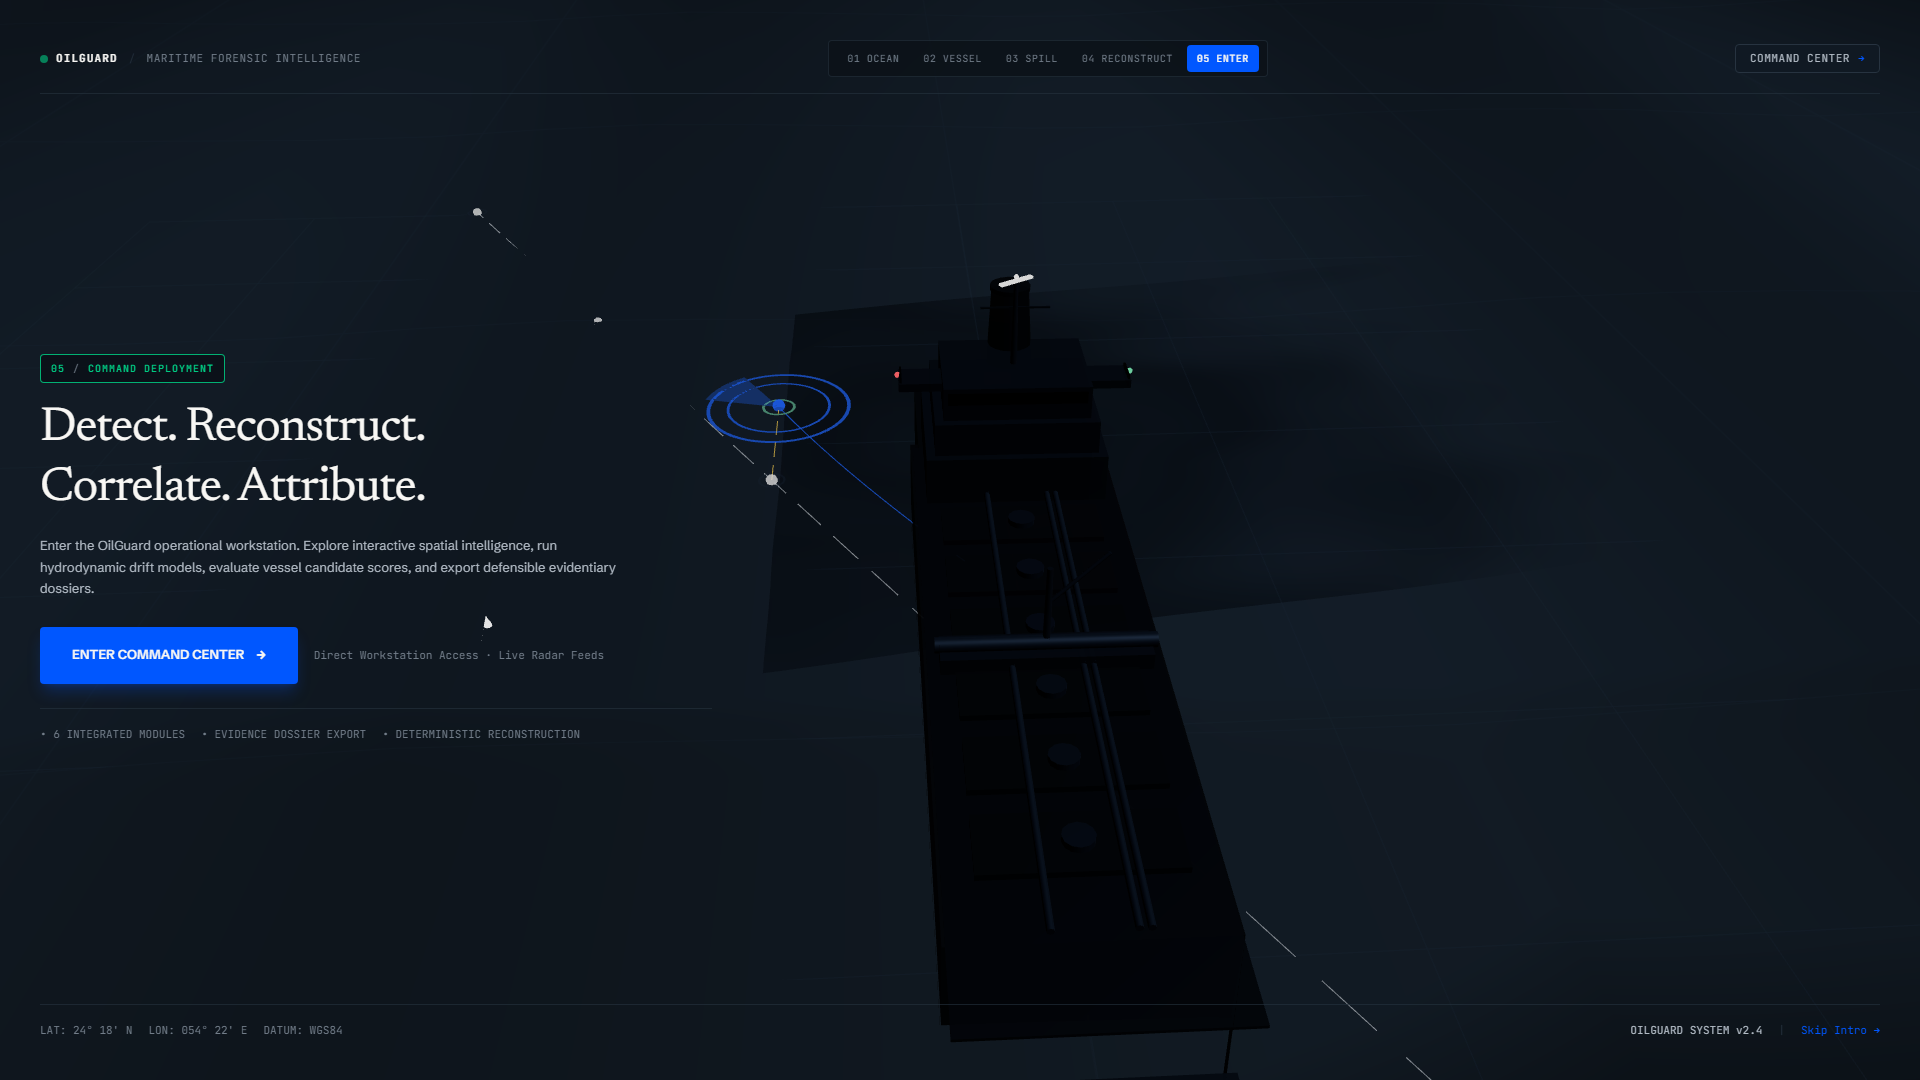
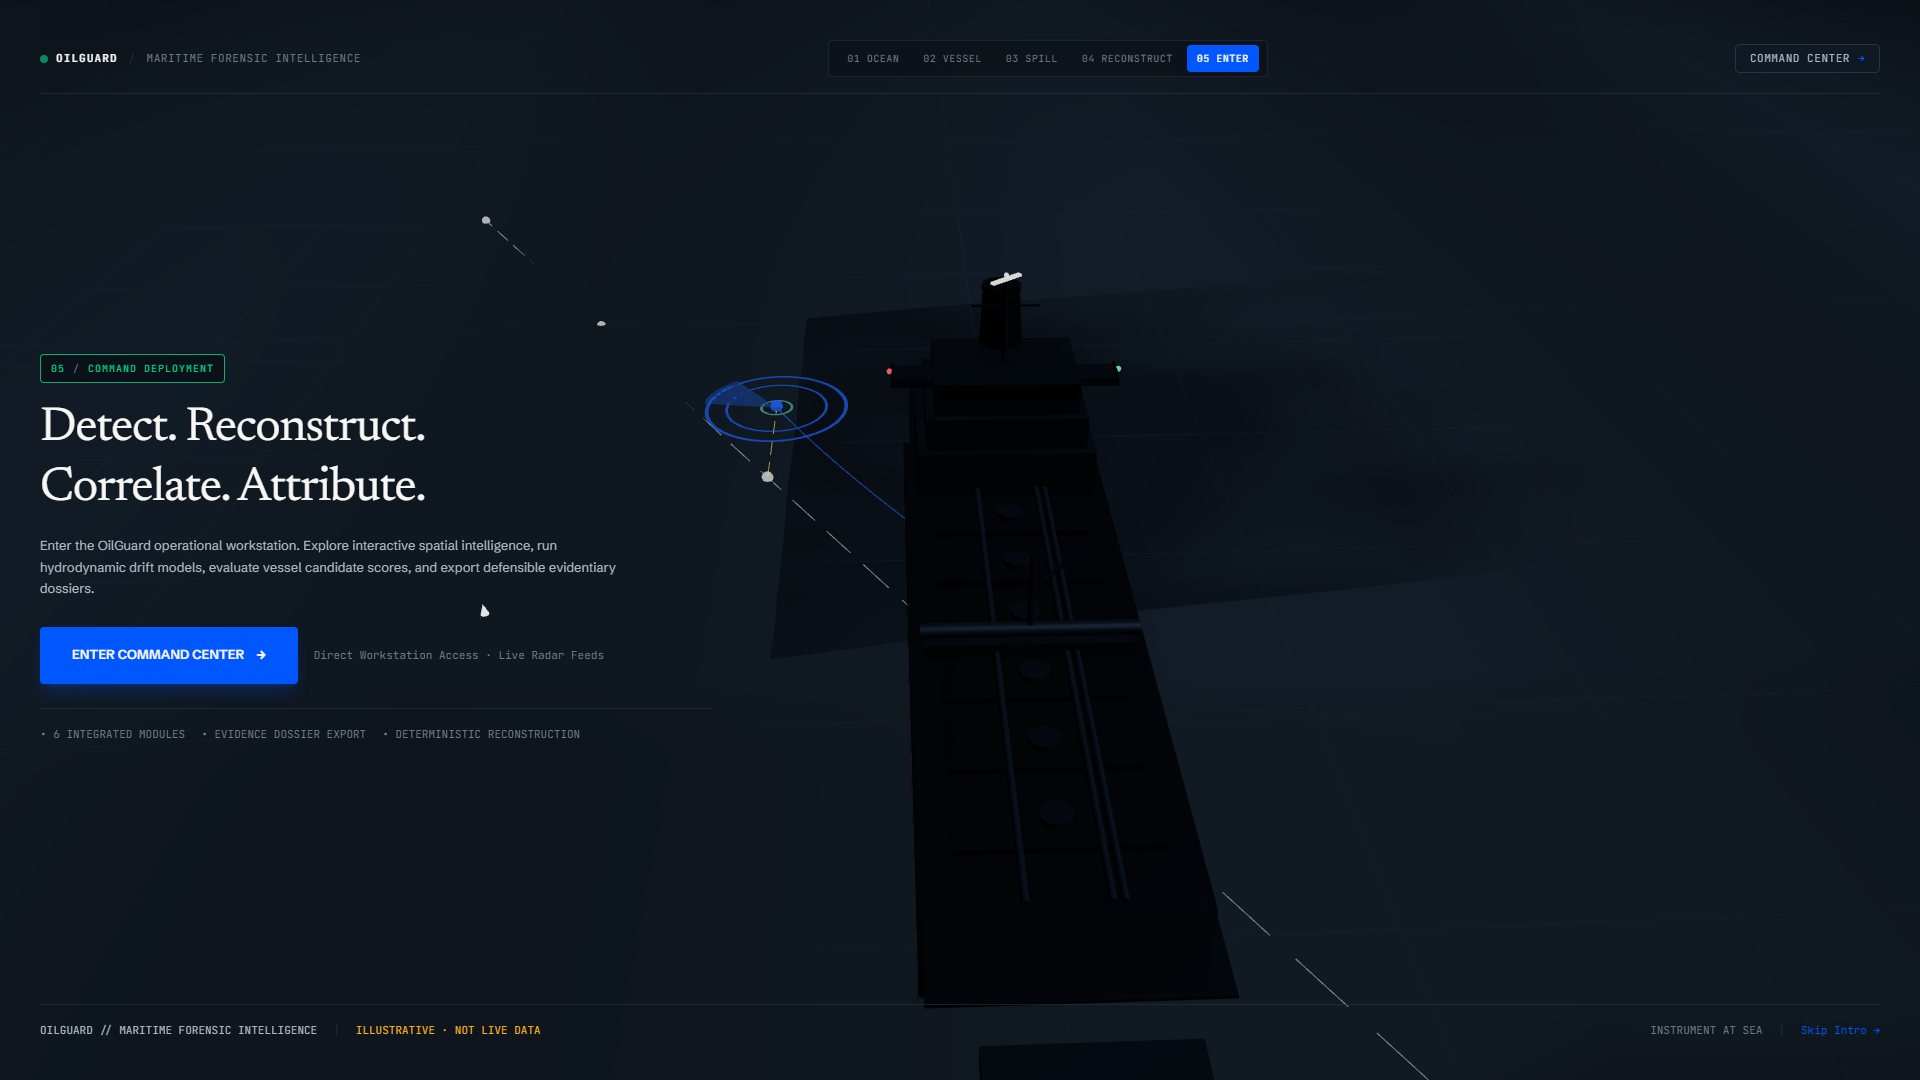
fix(m6): remove fabricated welcome telemetry

diff --git a/oil-spill-system/frontend/src/ui/welcome/WelcomeNarrative.tsx b/oil-spill-system/frontend/src/ui/welcome/WelcomeNarrative.tsx
@@ -162,7 +162,7 @@ export const WelcomeNarrative: React.FC<WelcomeNarrativeProps> = ({
             </div>
 
             <p className="font-mono text-[10px] text-[#727d89]">
-              SCHEMATIC VESSEL SILHOUETTE · NO CLASSIFIED OPERATIONAL DATA
+              Representative model, not vessel-specific geometry
             </p>
           </div>
 
@@ -307,16 +307,16 @@ export const WelcomeNarrative: React.FC<WelcomeNarrativeProps> = ({
         </div>
       </main>
 
-      {/* --- FOOTER COORDINATE BANNER --- */}
+      {/* --- FOOTER PRODUCT CHROME BANNER --- */}
       <footer className="flex flex-col sm:flex-row items-start sm:items-center justify-between border-t border-[#273340]/60 pt-4 gap-2 font-mono text-[11px] text-[#727d89] pointer-events-auto">
         <div className="flex items-center gap-4">
-          <span>LAT: 24° 18&apos; N</span>
-          <span>LON: 054° 22&apos; E</span>
-          <span className="hidden sm:inline">DATUM: WGS84</span>
+          <span className="text-[#b2bbc5]">OILGUARD // MARITIME FORENSIC INTELLIGENCE</span>
+          <span className="text-[#273340] hidden sm:inline">|</span>
+          <span className="text-[#ffb020] hidden sm:inline">ILLUSTRATIVE · NOT LIVE DATA</span>
         </div>
 
         <div className="flex items-center gap-4">
-          <span className="text-[#b2bbc5]">OILGUARD SYSTEM v2.4</span>
+          <span className="text-[#727d89]">INSTRUMENT AT SEA</span>
           <span className="text-[#273340]">|</span>
           <button
             type="button"

diff --git a/oil-spill-system/frontend/src/ui/welcome/WelcomeFallback.tsx b/oil-spill-system/frontend/src/ui/welcome/WelcomeFallback.tsx
@@ -172,7 +172,7 @@ export const WelcomeFallback: React.FC<WelcomeFallbackProps> = () => {
 
               {/* Schematic Labels */}
               <text x="20" y="145" fill="#727d89" fontSize="9" fontFamily="monospace">ORIGIN LOCUS</text>
-              <text x="245" y="130" fill="#727d89" fontSize="9" fontFamily="monospace">AIS TRACK // 14.2 KTS</text>
+              <text x="245" y="130" fill="#727d89" fontSize="9" fontFamily="monospace">AIS TRANSIT TRACK (ILLUSTRATIVE)</text>
             </svg>
 
             {/* Technical Disclaimer Notice */}
@@ -187,10 +187,10 @@ export const WelcomeFallback: React.FC<WelcomeFallbackProps> = () => {
       {/* Footer Technical Datum */}
       <footer className="relative z-10 flex flex-col sm:flex-row items-start sm:items-center justify-between border-t border-[#273340]/60 pt-4 gap-2 font-mono text-[11px] text-[#727d89]">
         <div>
-          <span>LAT: 24° 18&apos; N · LON: 054° 22&apos; E · WGS84</span>
+          <span>OILGUARD // MARITIME FORENSIC INTELLIGENCE</span>
         </div>
         <div>
-          <span>OILGUARD MARITIME FORENSIC ENGINE</span>
+          <span className="text-[#ffb020]">ILLUSTRATIVE · NOT LIVE DATA</span>
         </div>
       </footer>
     </div>

diff --git a/oil-spill-system/frontend/src/ui/welcome/WelcomeLoadingShell.tsx b/oil-spill-system/frontend/src/ui/welcome/WelcomeLoadingShell.tsx
@@ -55,8 +55,8 @@ export const WelcomeLoadingShell: React.FC = () => {
 
       {/* Footer bar */}
       <footer className="relative z-10 flex items-center justify-between border-t border-[#273340]/60 pt-4 font-mono text-[10px] text-[#727d89]">
-        <span>LAT: 24° 18&apos; N · LON: 054° 22&apos; E</span>
-        <span>INSTRUMENT AT SEA</span>
+        <span>OILGUARD // MARITIME FORENSIC INTELLIGENCE</span>
+        <span className="text-[#ffb020]">ILLUSTRATIVE · NOT LIVE DATA</span>
       </footer>
     </div>
   )

diff --git a/docs/frontend-rebuild/PROGRESS.md b/docs/frontend-rebuild/PROGRESS.md
@@ -518,6 +518,15 @@ Rebuild `/backtracking` and `/attribution` from legacy implementations into the 
    - `npx playwright test scripts/shots.pw.ts`: 24/24 passed across all 6 existing operational routes (`/`, `/simulation`, `/investigation`, `/backtracking`, `/attribution`, `/report`).
    - Protected contracts verified: 0 modifications to `backend/`, `scientific-service/`, `src/store/`, `src/lib/`, `src/types/`, `src/hooks/`, `src/routes.ts`.
 
+### M6 Honesty Blocker Resolution
+- **Removed Fabricated Telemetry**: Completely eliminated hardcoded coordinate / version / speed readouts (`LAT: 24° 18' N`, `LON: 054° 22' E`, `DATUM: WGS84`, `OILGUARD SYSTEM v2.4`, `AIS TRACK // 14.2 KTS`) across `WelcomeNarrative.tsx`, `WelcomeLoadingShell.tsx`, and `WelcomeFallback.tsx`. Replaced with non-operational illustrative product chrome: `OILGUARD // MARITIME FORENSIC INTELLIGENCE` and `ILLUSTRATIVE · NOT LIVE DATA`.
+- **Mandatory Tanker Label Correction**: Updated tanker disclaimer label in `WelcomeNarrative.tsx` to exact required wording: `"Representative model, not vessel-specific geometry"`.
+- **Non-Blocking Audit Notes**:
+  - Unused dependencies (`@react-three/drei`, `@gsap/react`) retained cleanly without runtime penalty.
+  - Reduced motion mode intentionally freezes the 3D scene camera and animations to a static tactical perspective rather than switching to 2D fallback, ensuring accessible parity with immediate CTA access.
+  - Lenis omitted in favor of native scrolling + GSAP ScrollTrigger for deterministic scroll position tracking.
+  - Narrative structured around 5 major cinematic story beats.
+
 ### Milestone Status
-- **M6 is COMPLETE**. The cinematic 3D welcome experience is fully implemented, verified across desktop and tablet viewports, accessible, performance-tuned, and tested against regressions.
+- **M6 is VERIFIED AND CLOSED**. Honesty blocker eliminated, verified with full test and build suites, and confirmed clean across all protected contracts.
 
